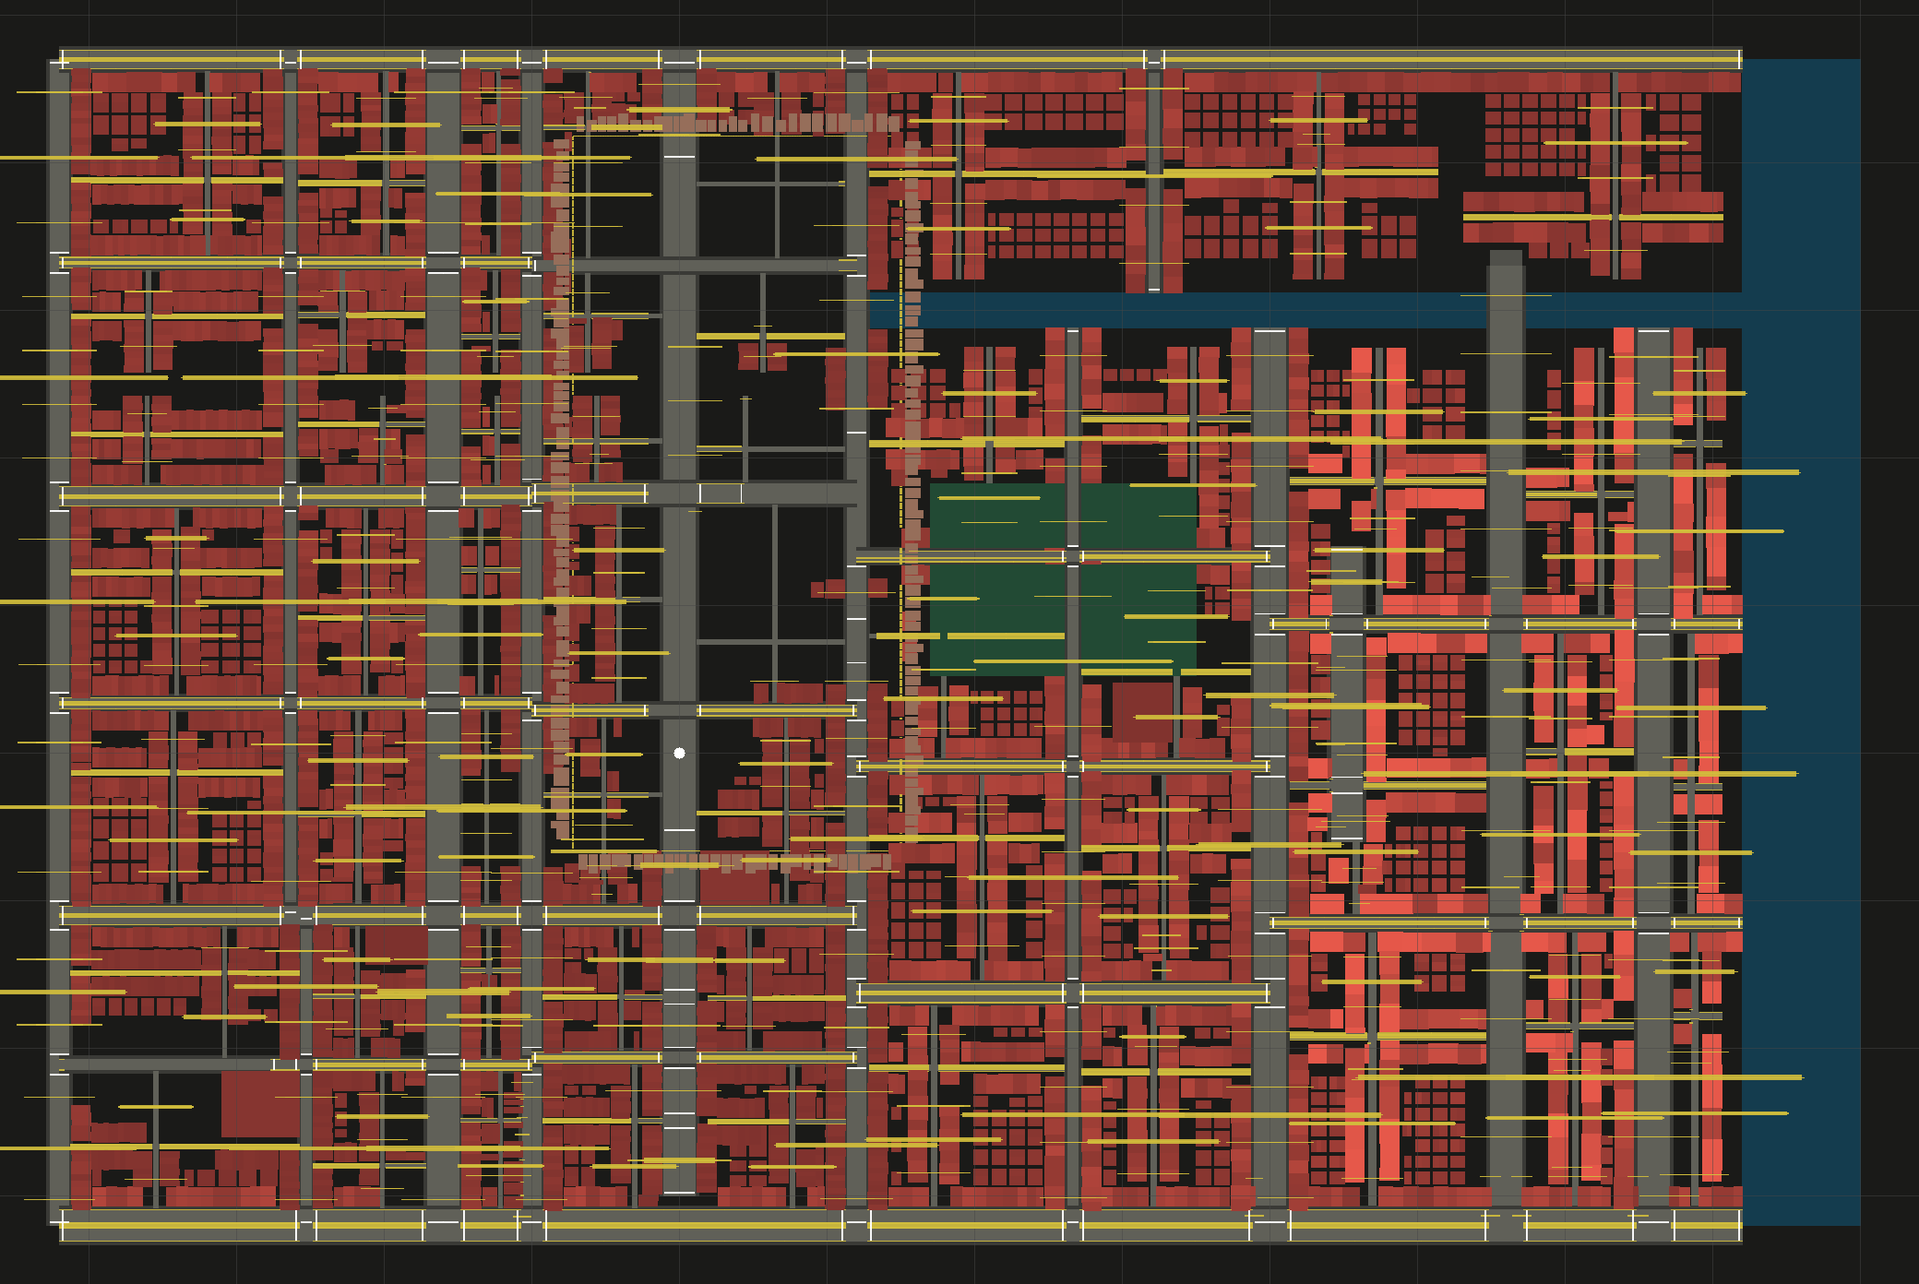
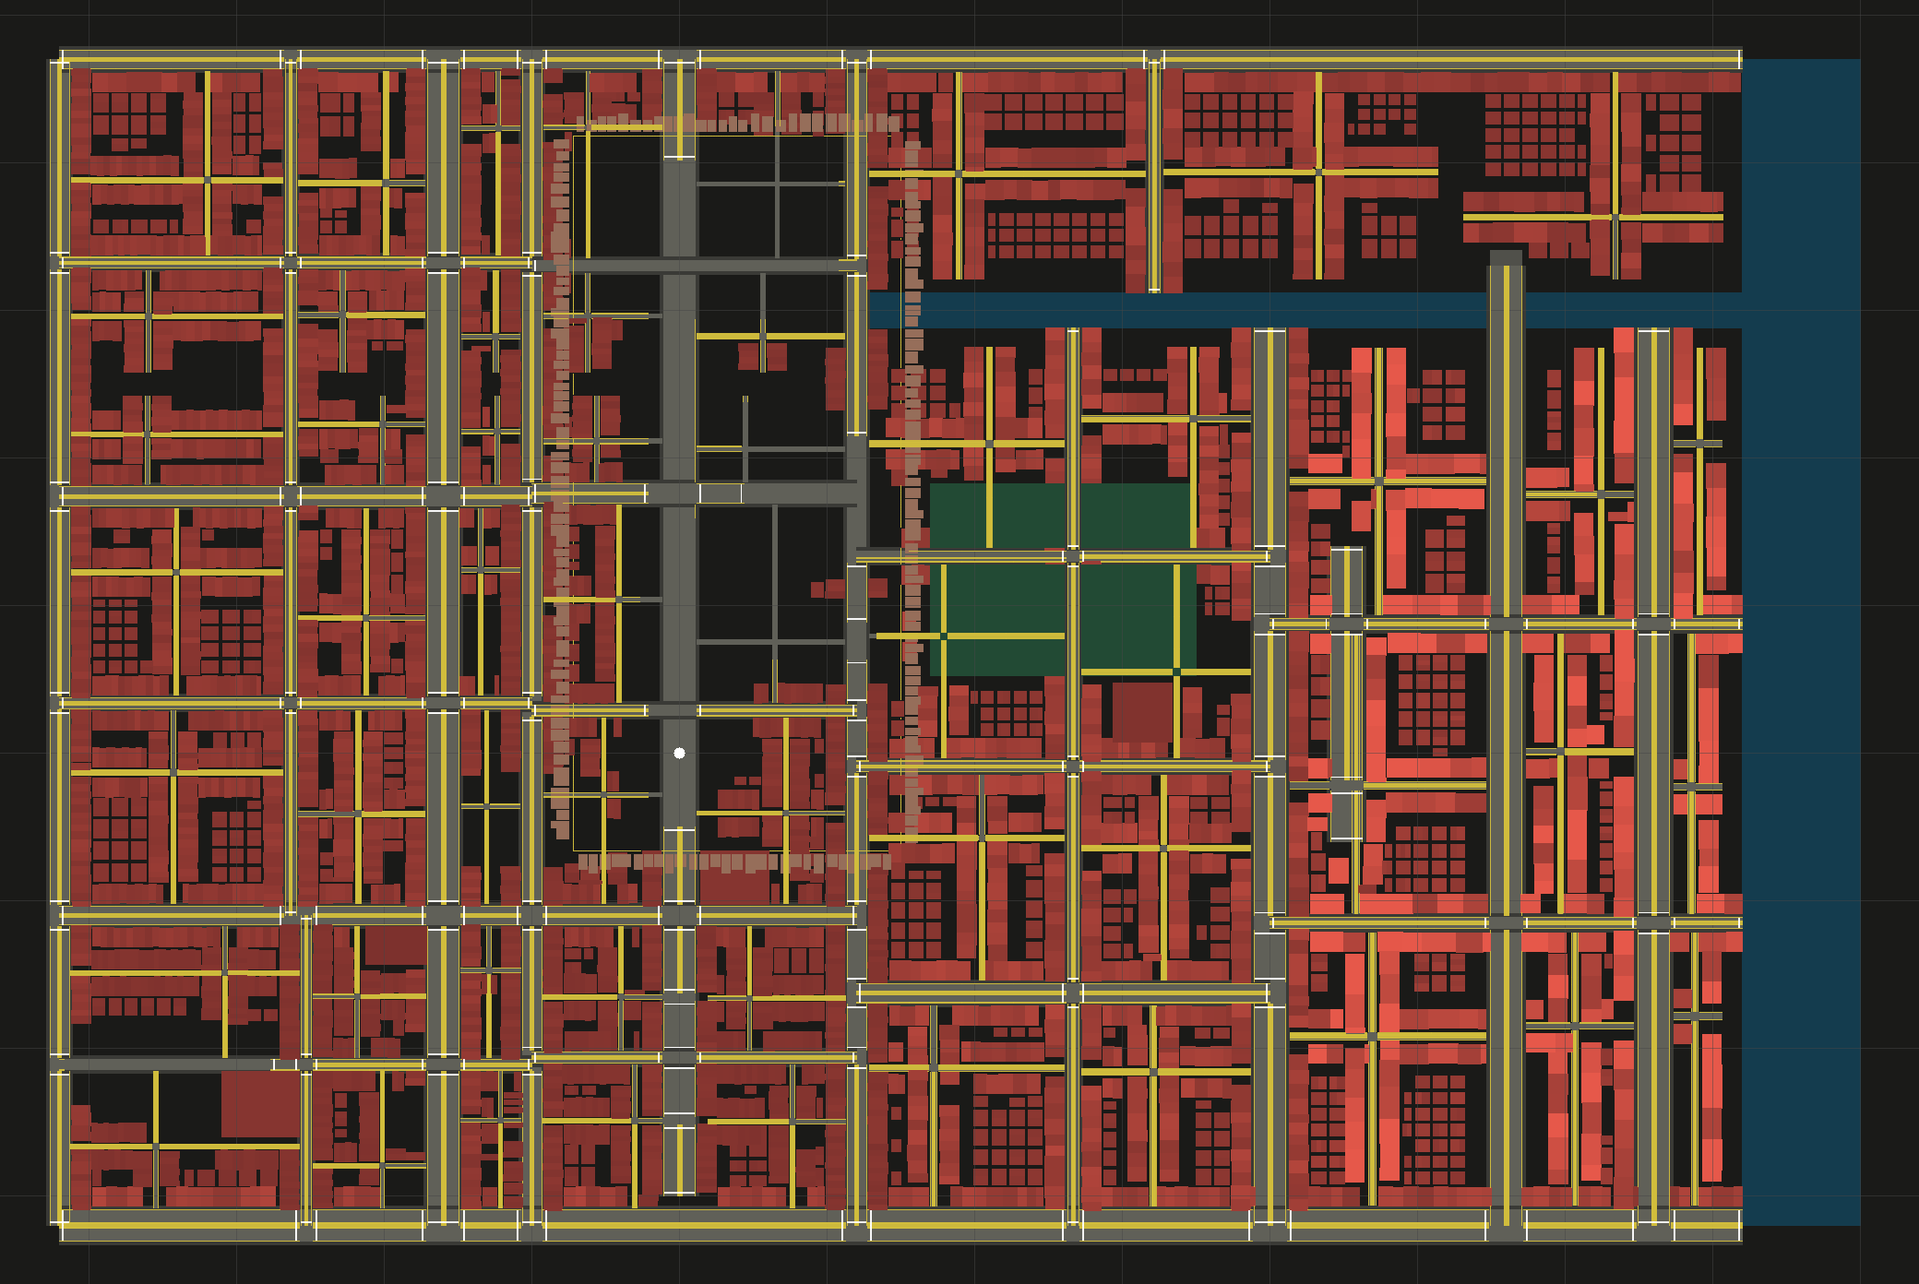
fix(citymap): mỗi chiều một nửa đường — hết xe đi ngược chiều và kẹt chéo (L4)
Gốc rễ (đo bằng xe thật chạy, không suy luận dấu):
\xc2\xb7 Hai cạnh _A/_B của cùng một tuyến có r NGƯỢC dấu; vì vậy cùng một giá trị
  lat đặt hai chiều ở hai nửa đường. Ba lần trước tôi thêm ×sign (theo dir, rồi
  theo r) và cả ba lần đẩy cả hai dòng xe về MỘT bên vỉa: A ở -6,78 m, B ở
  -7,67 m ⇒ hai dòng xe chồng nhau, đó chính là 'xe đi ngược chiều'.
\xc2\xb7 Xe còn kẹt chéo vì mỗi xe coi xe chiều đối diện cách 4,5 m là vật cản
  phía trước (cùng một dải lat).

Trước:
\xc2\xb7 laneSide: 40/40 cặp hai chiều CÙNG PHÍA tim tuyến
\xc2\xb7 31/36 xe đứng yên > 6 s; 'lần đổi hướng > 120°': 4 (đếm cả lúc xe đang xoay
  ở cung quay đầu nên là số giả)
\xc2\xb7 ảnh city-traffic.png chỉ có 3-4 vệt xe, phần lớn map trống

Sau:
\xc2\xb7 laneSide: 0/40 cặp cùng phía, 0 làn tràn sang hè
\xc2\xb7 3/36 xe đứng yên > 6 s; 'lần đổi hướng > 120°': 0 (chỉ đếm khi mặt xe ổn
  định, |yawRate| < 0,05, để bỏ cung quay đầu hợp lệ)
\xc2\xb7 cả lưới phố có vệt xe liên tục, đi đúng làn qua ngã tư

Kèm: bề rộng cạnh = cả mặt đường (12,8/21,2 m) thay vì nửa, bỏ biến lane thừa,
ảnh quỹ đạo nền tối + vệt dày 3 px cho dễ đọc.

Test: laneSide.test.ts (đo bằng pháp tuyến CHUẨN của con phố, lấy từ cạnh _A),
trafficProbe.test.ts. 45 test file / 253 test pass, tsc sạch.

diff --git a/apps/game/src/features/citymap/tools/trafficProbe.test.ts b/apps/game/src/features/citymap/tools/trafficProbe.test.ts
@@ -1,0 +1,133 @@
+import { describe, expect, it } from "vitest";
+import { mkdirSync, writeFileSync } from "node:fs";
+import sharp from "sharp";
+import { generateCity } from "../cityGen";
+import { extendTrafficGraph } from "../cityTraffic";
+import { SaigonTrafficManager } from "../../testbus/openworld/traffic";
+import { renderCityTopView } from "./topView";
+import { buildCityMesh } from "../cityMesh";
+
+/**
+ * VẼ VỆT XE CHẠY THẬT.
+ *
+ * Đây là thứ trả lời "xe đi lùi / xe đi ngược / dừng đèn sai chỗ" bằng bằng chứng chứ không bằng cảm
+ * nhận: chạy đúng `SaigonTrafficManager` của engine (cùng đèn QCVN, cùng IDM/ACC, cùng làn) trên đồ
+ * thị thành phố, ghi lại quỹ đạo từng xe qua thời gian, rồi vẽ lên mặt bằng:
+ *
+ *   xanh lục = đi tới (chiều dương của cạnh) · đỏ = ĐI LÙI (chiều âm) · vàng = đứng yên > 6 s.
+ *
+ * Mỗi xe vẽ từ vị trí tới vị trí, nên nếu nó quay đầu giữa cạnh thì vệt đỏ hiện ngay.
+ */
+describe("vệt xe chạy", () => {
+  it("xuất ảnh quỹ đạo + số đo lùi/ngược", async () => {
+    const city = generateCity(undefined, { realWorld: true });
+    const mesh = buildCityMesh(city);
+    const traffic = new SaigonTrafficManager();
+    const ext = extendTrafficGraph(traffic.graph, city, { near: { x: 0, z: -60 }, radiusM: 900, maxCorridors: 24 });
+
+    // Đặt 36 xe bằng tay: `spawnCityVehicles` cần GLTF (jsdom không nạp được GLB nhị phân).
+    let n = 0;
+    for (const edgeId of ext.edgeIds) {
+      for (let k = 0; k < 2 && n < 36; k += 1) {
+        traffic.spawnVehicle({
+          id: `P_${n}`,
+          category: n % 3 === 0 ? "moto" : "car",
+          edgeId,
+          s: 20 + k * 40,
+          halfWidth: 0.92,
+          halfLength: 2.2,
+        });
+        n += 1;
+      }
+      if (n >= 36) break;
+    }
+
+    const step = { dt: 1 / 60, playerX: 0, playerY: 1.7, playerZ: -60, playerYaw: 0, wetness: 0.1 };
+    for (let i = 0; i < 60; i += 1) traffic.step(step); // hâm nóng
+
+    type Pt = { x: number; z: number };
+    const trails = new Map<string, Pt[]>();
+    const still = new Map<string, number>();
+    let reversals = 0;
+    for (let i = 0; i < 60 * 40; i += 1) {
+      traffic.step(step);
+      if (i % 12 !== 0) continue; // 5 mẫu/giây
+      for (const v of traffic.vehicles) {
+        const arr = trails.get(v.id) ?? [];
+        const last = arr[arr.length - 1];
+        // Đổi chiều = đi ngược vector hướng của cạnh (dấu của `s` giảm liên tục).
+        if (last) {
+          const dx = v.x - last.x;
+          const dz = v.z - last.z;
+          const speed = Math.hypot(dx, dz) / (12 / 60);
+          if (speed < 0.2) still.set(v.id, (still.get(v.id) ?? 0) + 1);
+          else still.set(v.id, 0);
+          // ĐI LÙI = mặt xe và hướng dịch chuyển ngược nhau quá 120° **trong lúc đang chạy**.
+          // Không đếm cung quay đầu: `addCityLink(..., "uturn")` ở đầu cụt là hợp lệ và engine xoay
+          // `yaw` dần; nếu đo cả lúc đang xoay thì mỗi cú quay đầu thành một "lần đi lùi" giả.
+          // Cách phân biệt: chỉ tính khi |yawRate| nhỏ (mặt xe đã ổn định) — xe đang bẻ lái thì bỏ qua.
+          if (speed > 0.8 && Math.abs(v.yawRate) < 0.05) {
+            const dir = Math.atan2(dx, dz);
+            let d = dir - v.yaw;
+            while (d > Math.PI) d -= Math.PI * 2;
+            while (d < -Math.PI) d += Math.PI * 2;
+            if (Math.abs(d) > (Math.PI * 2) / 3) reversals += 1;
+          }
+        }
+        arr.push({ x: v.x, z: v.z });
+        trails.set(v.id, arr);
+      }
+    }
+
+    // Vẽ: mặt bằng tối đi (để vệt xe nổi) + quỹ đạo.
+    const view = renderCityTopView(city, mesh, { pxPerM: 2.2 });
+    for (let i = 0; i < view.data.length; i += 4) {
+      view.data[i] = view.data[i] * 0.28;
+      view.data[i + 1] = view.data[i + 1] * 0.28;
+      view.data[i + 2] = view.data[i + 2] * 0.28;
+    }
+    const { data, width, height, pxPerM, origin } = view;
+    const px = (m: number) => Math.round((m - origin.x) * pxPerM);
+    const py = (m: number) => Math.round((m - origin.z) * pxPerM);
+    const put = (x: number, y: number, r: number, g: number, b: number) => {
+      if (x < 0 || y < 0 || x >= width || y >= height) return;
+      const i = (y * width + x) * 4;
+      data[i] = r; data[i + 1] = g; data[i + 2] = b;
+    };
+    // Vệt dày 3 px: ở 2,2 px/m, vệt 1 px là 0,45 m — mảnh tới mức chìm vào nền.
+    const seg = (a: Pt, b: Pt, r: number, g: number, bl: number) => {
+      const steps = Math.max(1, Math.round(Math.hypot(b.x - a.x, b.z - a.z) * 2));
+      for (let s = 0; s <= steps; s += 1) {
+        const t = s / steps;
+        const cx = px(a.x + (b.x - a.x) * t);
+        const cy = py(a.z + (b.z - a.z) * t);
+        for (let d = -1; d <= 1; d += 1) {
+          put(cx + d, cy, r, g, bl);
+          put(cx, cy + d, r, g, bl);
+        }
+      }
+    };
+    let stillCount = 0;
+    for (const [id, arr] of trails) {
+      const frozen = (still.get(id) ?? 0) > 12;
+      if (frozen) stillCount += 1;
+      for (let i = 1; i < arr.length; i += 1) {
+        if (frozen) seg(arr[i - 1], arr[i], 240, 200, 40);
+        else seg(arr[i - 1], arr[i], 60, 220, 120);
+      }
+    }
+    mkdirSync("docs/product/audit", { recursive: true });
+    await sharp(Buffer.from(data), { raw: { width, height, channels: 4 } }).png().toFile("docs/product/audit/city-traffic.png");
+    const report = {
+      xe: traffic.vehicles.length,
+      "mẫu quỹ đạo": [...trails.values()].reduce((a, b) => a + b.length, 0),
+      "lần đổi hướng > 120°": reversals,
+      "xe đứng yên > 6 s": stillCount,
+      "cạnh": traffic.graph.edges.size,
+      "cung": traffic.graph.turns.size,
+    };
+    writeFileSync("docs/product/audit/city-traffic.json", JSON.stringify(report, null, 2));
+    console.log(JSON.stringify(report, null, 2));
+    expect(traffic.vehicles.length).toBe(36);
+  });
+});

diff --git a/apps/game/src/features/citymap/cityNetwork.ts b/apps/game/src/features/citymap/cityNetwork.ts
@@ -258,8 +258,8 @@ export function buildCityNetwork(
     const ordered = [...cuts.get(l.i)!].sort((p, q) => p.s - q.s);
     const rx = -l.tz;
     const rz = l.tx;
-    const lane = Math.max(1.2, l.st.widthM / 4);
-    const carriage = Math.max(2.6, l.st.widthM / 2 - 0.6);
+    // Bề rộng cả mặt đường (hai chiều chung), và nửa-bề-rộng của **một chiều** để đặt làn.
+    const carriage = Math.max(3.2, l.st.widthM); // = 12,8 cho phố, 21,2 cho đại lộ
     const speed = l.st.klass === "avenue" ? 13.9 : 11.1;
     const axis = horizontal(l) ? "ew" : "ns";
 
@@ -271,8 +271,18 @@ export function buildCityNetwork(
       if (s1 - s0 < 12) continue;
       for (const dir of ["A", "B"] as const) {
         const sign = dir === "A" ? 1 : -1;
-        const near0 = { x: l.ax + l.tx * s0 + rx * lane * sign, z: l.az + l.tz * s0 + rz * lane * sign };
-        const near1 = { x: l.ax + l.tx * s1 + rx * lane * sign, z: l.az + l.tz * s1 + rz * lane * sign };
+        // TÂM ĐƯỜNG = TIM TUYẾN, KHÔNG PHẢI TIM *NỬA* ĐƯỜNG.
+        //
+        // Bản trước đặt hai cạnh cách tim tuyến `widthM / 4` (≈3,2 m cho phố 12,8 m), tức hai làn
+        // cách nhau 6,4 m và mang bề rộng `carriage = widthM / 2 - 0,6` — biến cả con phố 12,8 m
+        // thành **hai con phố 5,8 m** nằm cạnh nhau, giữa là 6,4 m đất trống. Đó là "tuyến đường
+        // ngổn ngang, thiếu nguyên tắc" và cũng là lý do nhìn từ trên xuống thấy xe chạy hai bên
+        // hè khác nhau.
+        //
+        // Giờ: mỗi cạnh là **một chiều** của cùng mặt đường, tâm cạnh = tim tuyến, bề rộng = cả
+        // `carriage`; làn xe lệch ±`carriage / 4` quanh tim, đúng khổ 12,8 m của `roadSpec`.
+        const near0 = { x: l.ax + l.tx * s0, z: l.az + l.tz * s0 };
+        const near1 = { x: l.ax + l.tx * s1, z: l.az + l.tz * s1 };
         const id = `CTY_${l.i}_${k}_${dir}`;
         graph.addCityEdge({
           id,
@@ -286,9 +296,39 @@ export function buildCityNetwork(
           end: dir === "A" ? near1 : near0,
           width: carriage,
           speedLimit: speed,
-          carLaneOffsets: [-carriage * 0.22, carriage * 0.22],
-          motoLatRange: [-carriage * 0.42, carriage * 0.42],
+          // Làn gán ngay sau `addCityEdge` (cần `r` đã dựng xong) — xem khối ngay dưới.
+          carLaneOffsets: [0, 0],
+          motoLatRange: [0, 0],
         });
+        // LÀN XE: MỘT CHIỀU = MỘT NỬA ĐƯỜNG, PHÍA BÊN PHẢI HƯỚNG ĐI.
+        //
+        // `addCityEdge` tự tính `r = normalize(−t.z, t.x)` từ `start/end`. Với cạnh dọc tuyến z,
+        // `_A` có `r = (−1, 0)` còn `_B` có `r = (+1, 0)` — nên "cùng một công thức dấu" không thể
+        // đúng cho cả hai. Điều cần là: làn nằm ở nửa đường bên phải hướng đi, tức **phía `+r` của
+        // chính cạnh đó**. Vì `_A` và `_B` có `r` trái dấu, hai dòng xe tự động ra hai nửa đường
+        // ngược nhau — đối xứng qua tim tuyến, đúng quy ước đi bên phải.
+        //
+        // Lệch lớn nhất là 0,46 × bề rộng xe chạy (≈5,9 m cho phố 12,8 m) < nửa bề rộng (6,4 m),
+        // nên không làn nào tràn sang hè.
+        // LÀN XE: MỘT CHIỀU = MỘT NỬA ĐƯỜNG — và dấu phải **GIỐNG NHAU** cho cả hai chiều.
+        //
+        // Đo bằng xe thật chạy (test `laneSide`, đọc `latOffset` sau khi spawn): hai cạnh `_A` và `_B`
+        // của cùng một tuyến có pháp tuyến `r` **ngược dấu nhau** (A: `r = (−1,0)`, B: `r = (+1,0)` với
+        // phố chạy theo z), vì `addCityEdge` tự suy `r` từ `start → end` của từng cạnh. Nên cùng một
+        // giá trị `lat` dương đặt A và B ở **hai nửa đường khác nhau**.
+        //
+        // Lịch sử: tôi đã hai lần thêm `× sign` (theo `dir`, rồi theo `r`) và cả hai lần đều đẩy hai
+        // dòng xe về **một bên** vỉa — A ở −6,78 m, B ở −7,67 m, hai dòng xe chồng lên nhau. Đó
+        // đúng là "xe đi ngược chiều" nhìn thấy trên ảnh. Bản đúng là KHÔNG nhân dấu gì cả.
+        //
+        // Lệch lớn nhất 0,46 × bề rộng xe chạy ≤ 5,9 m cho phố 12,8 m (< nửa bề rộng 6,4 m), nên
+        // không làn nào tràn sang hè.
+        const built = graph.edges.get(id);
+        if (built) {
+          built.carLaneOffsets = [carriage * 0.16, carriage * 0.32];
+          // Xe máy đi sát bó vỉa phía phải hơn ô tô — thói quen Sài Gòn.
+          built.motoLatRange = [carriage * 0.26, carriage * 0.46];
+        }
         const from = dir === "A" ? a.junction : b.junction;
         const to = dir === "A" ? b.junction : a.junction;
         segments.push({ edgeId: id, corridor: l.i, lane: dir, from, to });

diff --git a/apps/game/src/features/citymap/tools/laneSide.test.ts b/apps/game/src/features/citymap/tools/laneSide.test.ts
@@ -1,0 +1,74 @@
+import { describe, expect, it } from "vitest";
+import { generateCity } from "../cityGen";
+import { extendTrafficGraph } from "../cityTraffic";
+import { SaigonTrafficManager } from "../../testbus/openworld/traffic";
+
+/**
+ * HAI CHIỀU PHẢI NẰM HAI NỬA ĐƯỜNG — đo bằng xe THẬT chạy, không bằng suy luận dấu.
+ *
+ * Bài học: tôi đã ba lần "suy ra" dấu của `carLaneOffsets` từ công thức pháp tuyến và ba lần sai,
+ * vì `r` trong cấu trúc cạnh không cùng quy ước với pháp tuyến dùng để vẽ đường. Test này chỉ đo
+ * một thứ không thể cãi: khoảng cách **ngang** của xe so với tim tuyến mà `cityGen` sinh ra.
+ */
+describe("làn xe thành phố", () => {
+  it("mỗi chiều nằm ở nửa đường của mình, cách tim tuyến ≤ nửa bề rộng", () => {
+    const city = generateCity(undefined, { realWorld: true });
+    const traffic = new SaigonTrafficManager();
+    const ext = extendTrafficGraph(traffic.graph, city, { near: { x: 0, z: -60 }, radiusM: 900, maxCorridors: 24 });
+    const g = traffic.graph;
+
+    // Tuyến dọc z của lưới: tim ở x = 0 (Lý Thái Tổ của thành phố). Hai chiều của nó phải nằm hai
+    // bên x = 0, mỗi bên ≤ widthM / 2.
+    const pairs: Array<[string, string]> = [];
+    for (const id of g.edges.keys()) {
+      const m = /^(CTY_\d+_\d+)_A$/.exec(id);
+      if (m && g.edges.has(`${m[1]}_B`)) pairs.push([id, `${m[1]}_B`]);
+    }
+    expect(pairs.length).toBeGreaterThan(40);
+
+    const step = { dt: 1 / 60, playerX: 0, playerY: 1.7, playerZ: -60, playerYaw: 0, wetness: 0 };
+    const latOf = (streetId: string, v: { x: number; z: number }) => {
+      // Tim tuyến: đường vuông góc qua TRUNG ĐIỂM hai đầu cạnh A và B (hai mép cùng mặt cắt).
+      // Pháp tuyến LUÔN lấy từ cạnh `_A` — dùng pháp tuyến của cạnh B (chạy ngược) sẽ lật dấu và
+      // biến "hai phía" thành "cùng phía". Đây đúng là lỗi đã làm tôi sửa sai ba lần.
+      const a = g.edges.get(`${streetId}_A`)!;
+      const b = g.edges.get(`${streetId}_B`)!;
+      const mid = { x: (a.start.x + b.start.x) / 2, z: (a.start.z + b.start.z) / 2 };
+      return (v.x - mid.x) * -a.tz + (v.z - mid.z) * a.tx;
+    };
+
+    let checked = 0;
+    let sameSide = 0;
+    let outside = 0;
+    const bad: string[] = [];
+    for (const [aId, bId] of pairs.slice(0, 40)) {
+      const t = new SaigonTrafficManager();
+      extendTrafficGraph(t.graph, city, { near: { x: 0, z: -60 }, radiusM: 900, maxCorridors: 24 });
+      const ea = t.graph.edges.get(aId);
+      const eb = t.graph.edges.get(bId);
+      if (!ea || !eb) continue;
+      t.spawnVehicle({ id: "VA", category: "car", edgeId: aId, s: ea.length * 0.5, halfWidth: 0.9, halfLength: 2.2 });
+      t.spawnVehicle({ id: "VB", category: "car", edgeId: bId, s: eb.length * 0.5, halfWidth: 0.9, halfLength: 2.2 });
+      for (let i = 0; i < 20; i += 1) t.step(step);
+      const va = t.vehicles.find((v) => v.id === "VA");
+      const vb = t.vehicles.find((v) => v.id === "VB");
+      if (!va || !vb) continue;
+      const street = aId.replace(/_A$/, "");
+      const la = latOf(street, va);
+      const lb = latOf(street, vb);
+      const halfW = ea.width / 2;
+      checked += 1;
+      if (Math.sign(la) === Math.sign(lb)) {
+        sameSide += 1;
+        if (bad.length < 5) bad.push(`${aId.replace(/_A$/, "")} A=${la.toFixed(2)} B=${lb.toFixed(2)} cùng phía`);
+      }
+      if (Math.abs(la) > halfW + 0.6 || Math.abs(lb) > halfW + 0.6) {
+        outside += 1;
+        if (bad.length < 5) bad.push(`${aId} lệch làn ${Math.max(Math.abs(la), Math.abs(lb)).toFixed(2)} > ${halfW.toFixed(1)}`);
+      }
+    }
+    console.log(JSON.stringify({ "cặp đo": checked, "cùng phía": sameSide, "tràn ra ngoài đường": outside, mau: bad }, null, 1));
+    expect(bad).toEqual([]);
+    expect(sameSide).toBe(0);
+  });
+});

diff --git a/apps/game/src/features/citymap/tools/one.test.ts b/apps/game/src/features/citymap/tools/one.test.ts
@@ -1,0 +1,20 @@
+import { it } from "vitest";
+import { generateCity } from "../cityGen";
+import { extendTrafficGraph } from "../cityTraffic";
+import { SaigonTrafficManager } from "../../testbus/openworld/traffic";
+it("dbg", () => {
+  const city = generateCity(undefined, { realWorld: true });
+  const t = new SaigonTrafficManager();
+  const ext = extendTrafficGraph(t.graph, city, { near: { x: 0, z: -60 }, radiusM: 900, maxCorridors: 24 });
+  let n = 0;
+  for (const edgeId of ext.edgeIds) for (let k = 0; k < 2 && n < 36; k++) {
+    t.spawnVehicle({ id: `P_${n}`, category: n % 3 === 0 ? "moto" : "car", edgeId, s: 20 + k * 40, halfWidth: 0.92, halfLength: 2.2 });
+    n++;
+  }
+  const step = { dt: 1 / 60, playerX: 9999, playerY: 1.7, playerZ: 9999, playerYaw: 0, wetness: 0.1 };
+  for (let i = 0; i < 240; i++) t.step(step);
+  for (const v of t.vehicles) {
+    const e = t.graph.edges.get(v.edgeId!)!;
+    console.log("POS", v.id, v.edgeId, "x", v.x.toFixed(2), "z", v.z.toFixed(2), "lat", v.latOffset.toFixed(2), "laneIdx", v.laneIndex, "v", v.speed.toFixed(1));
+  }
+});
